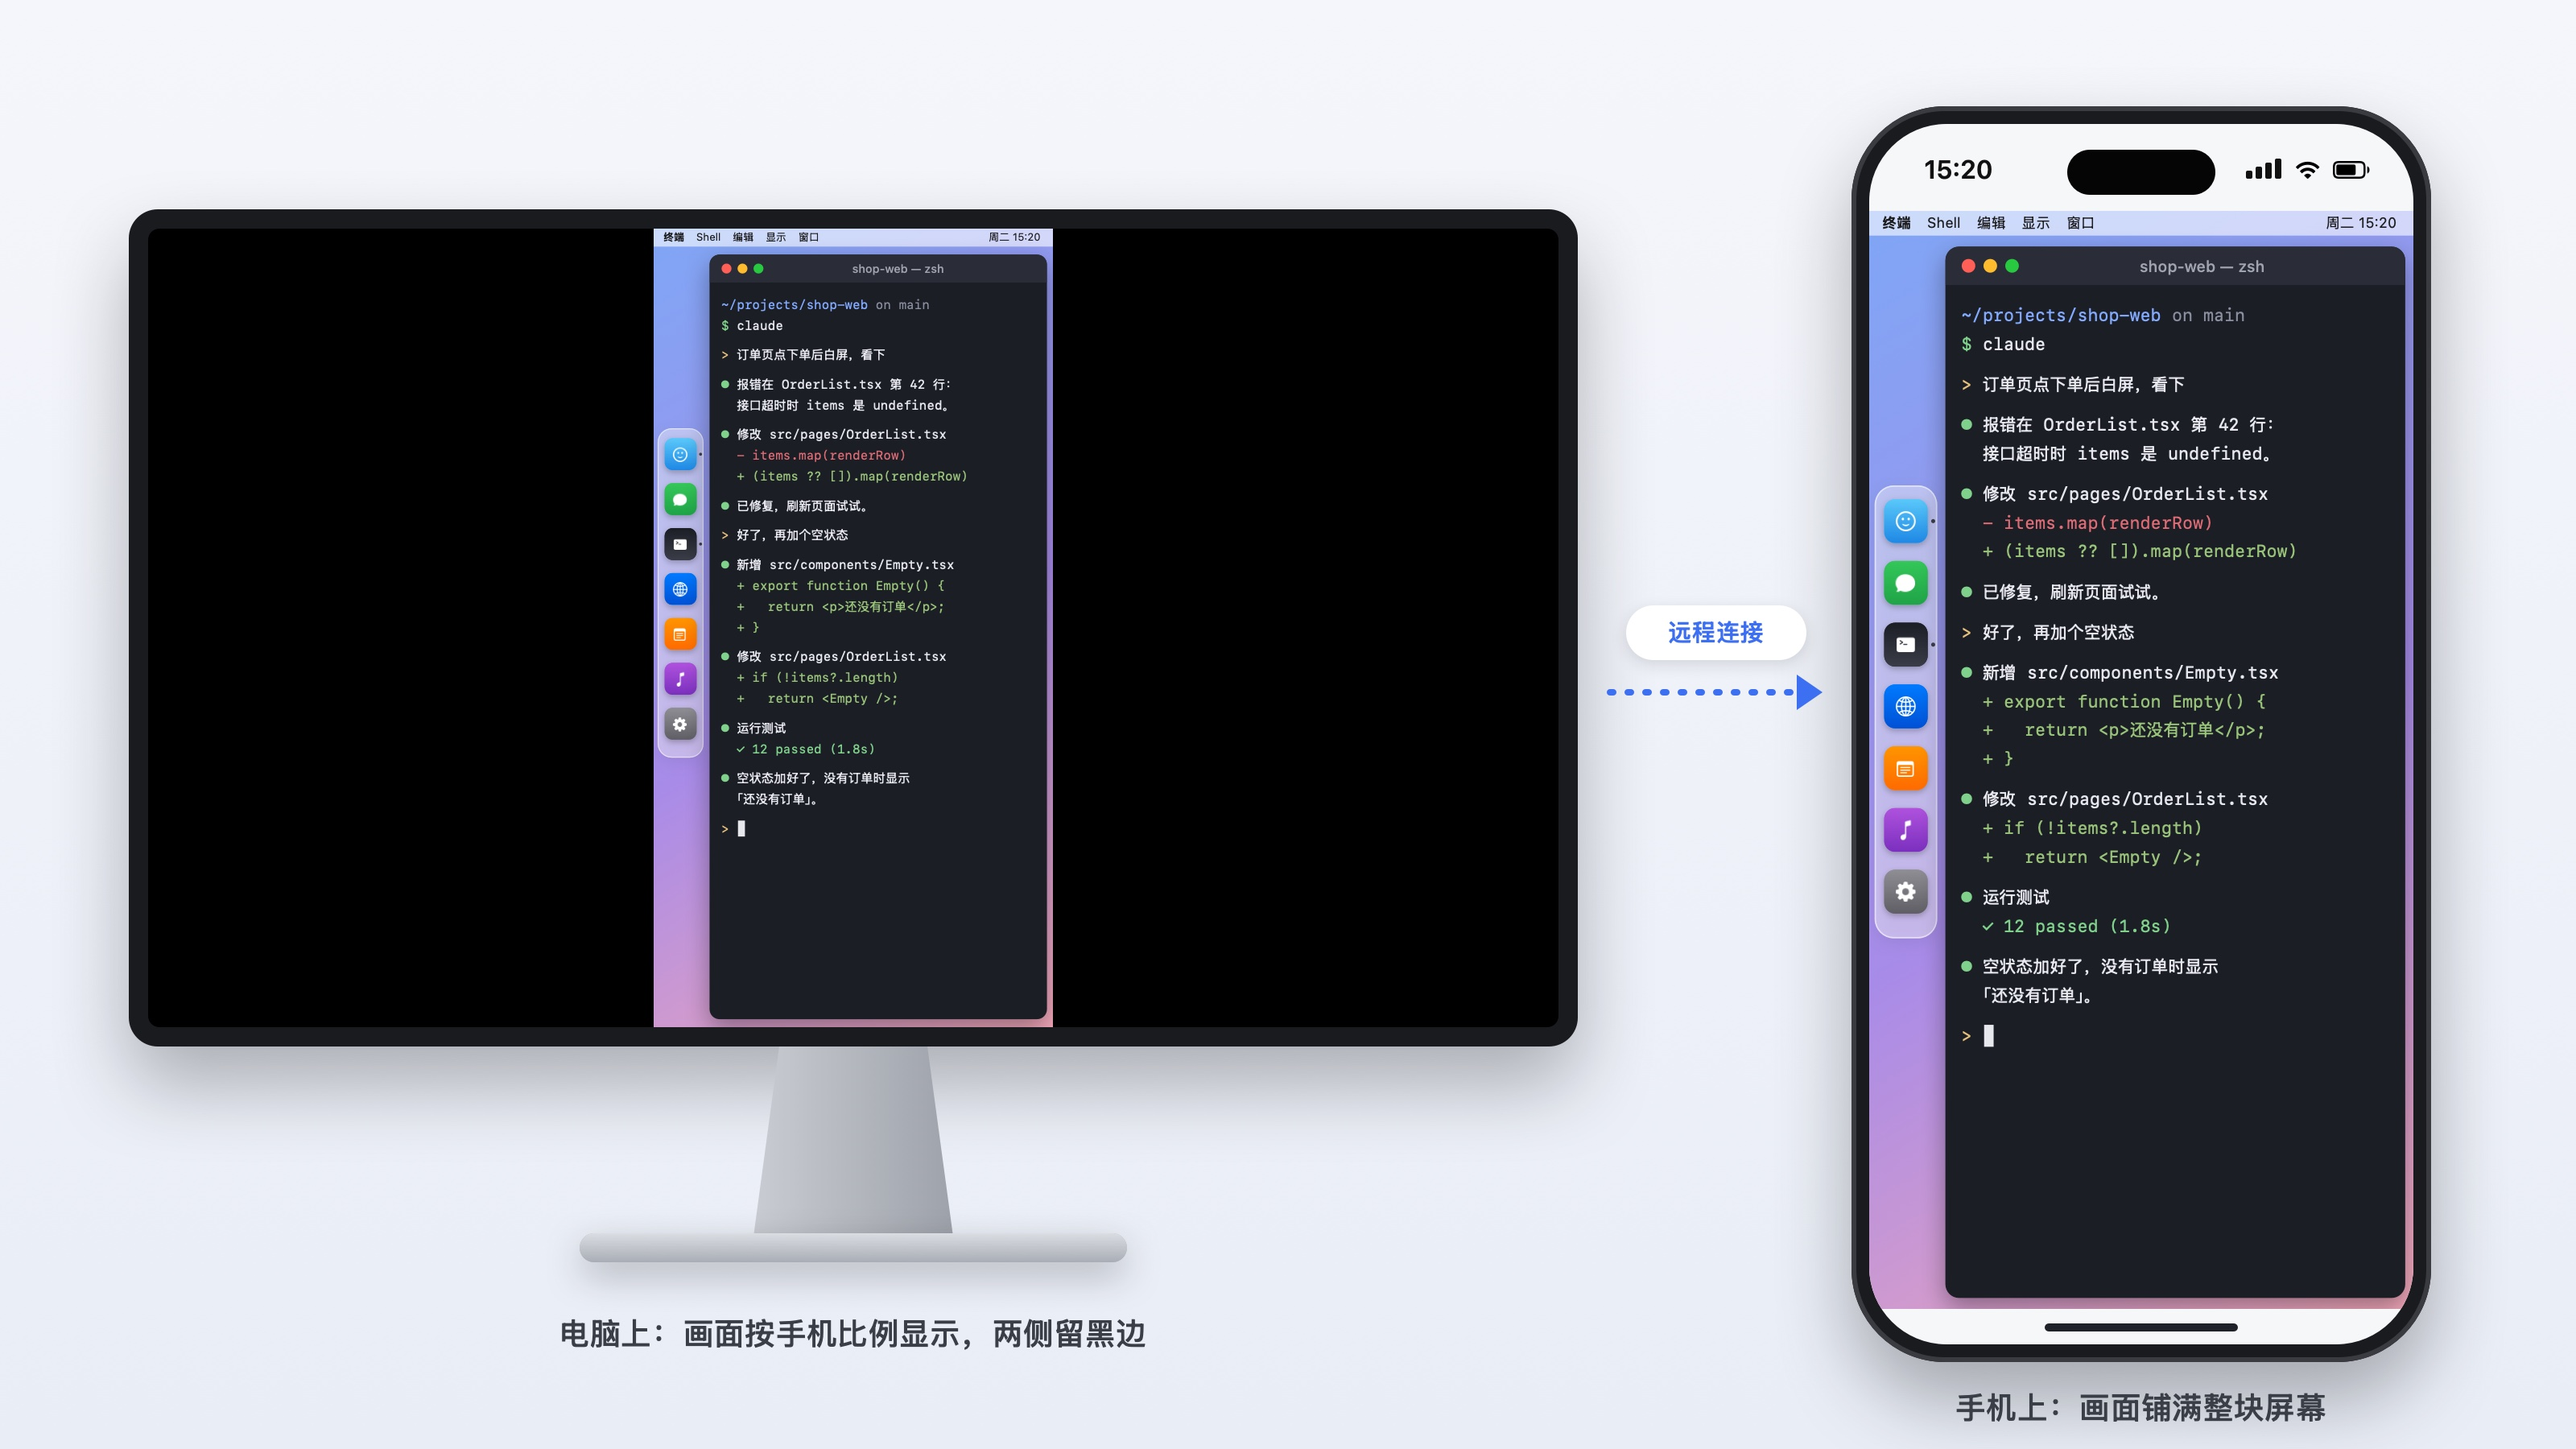
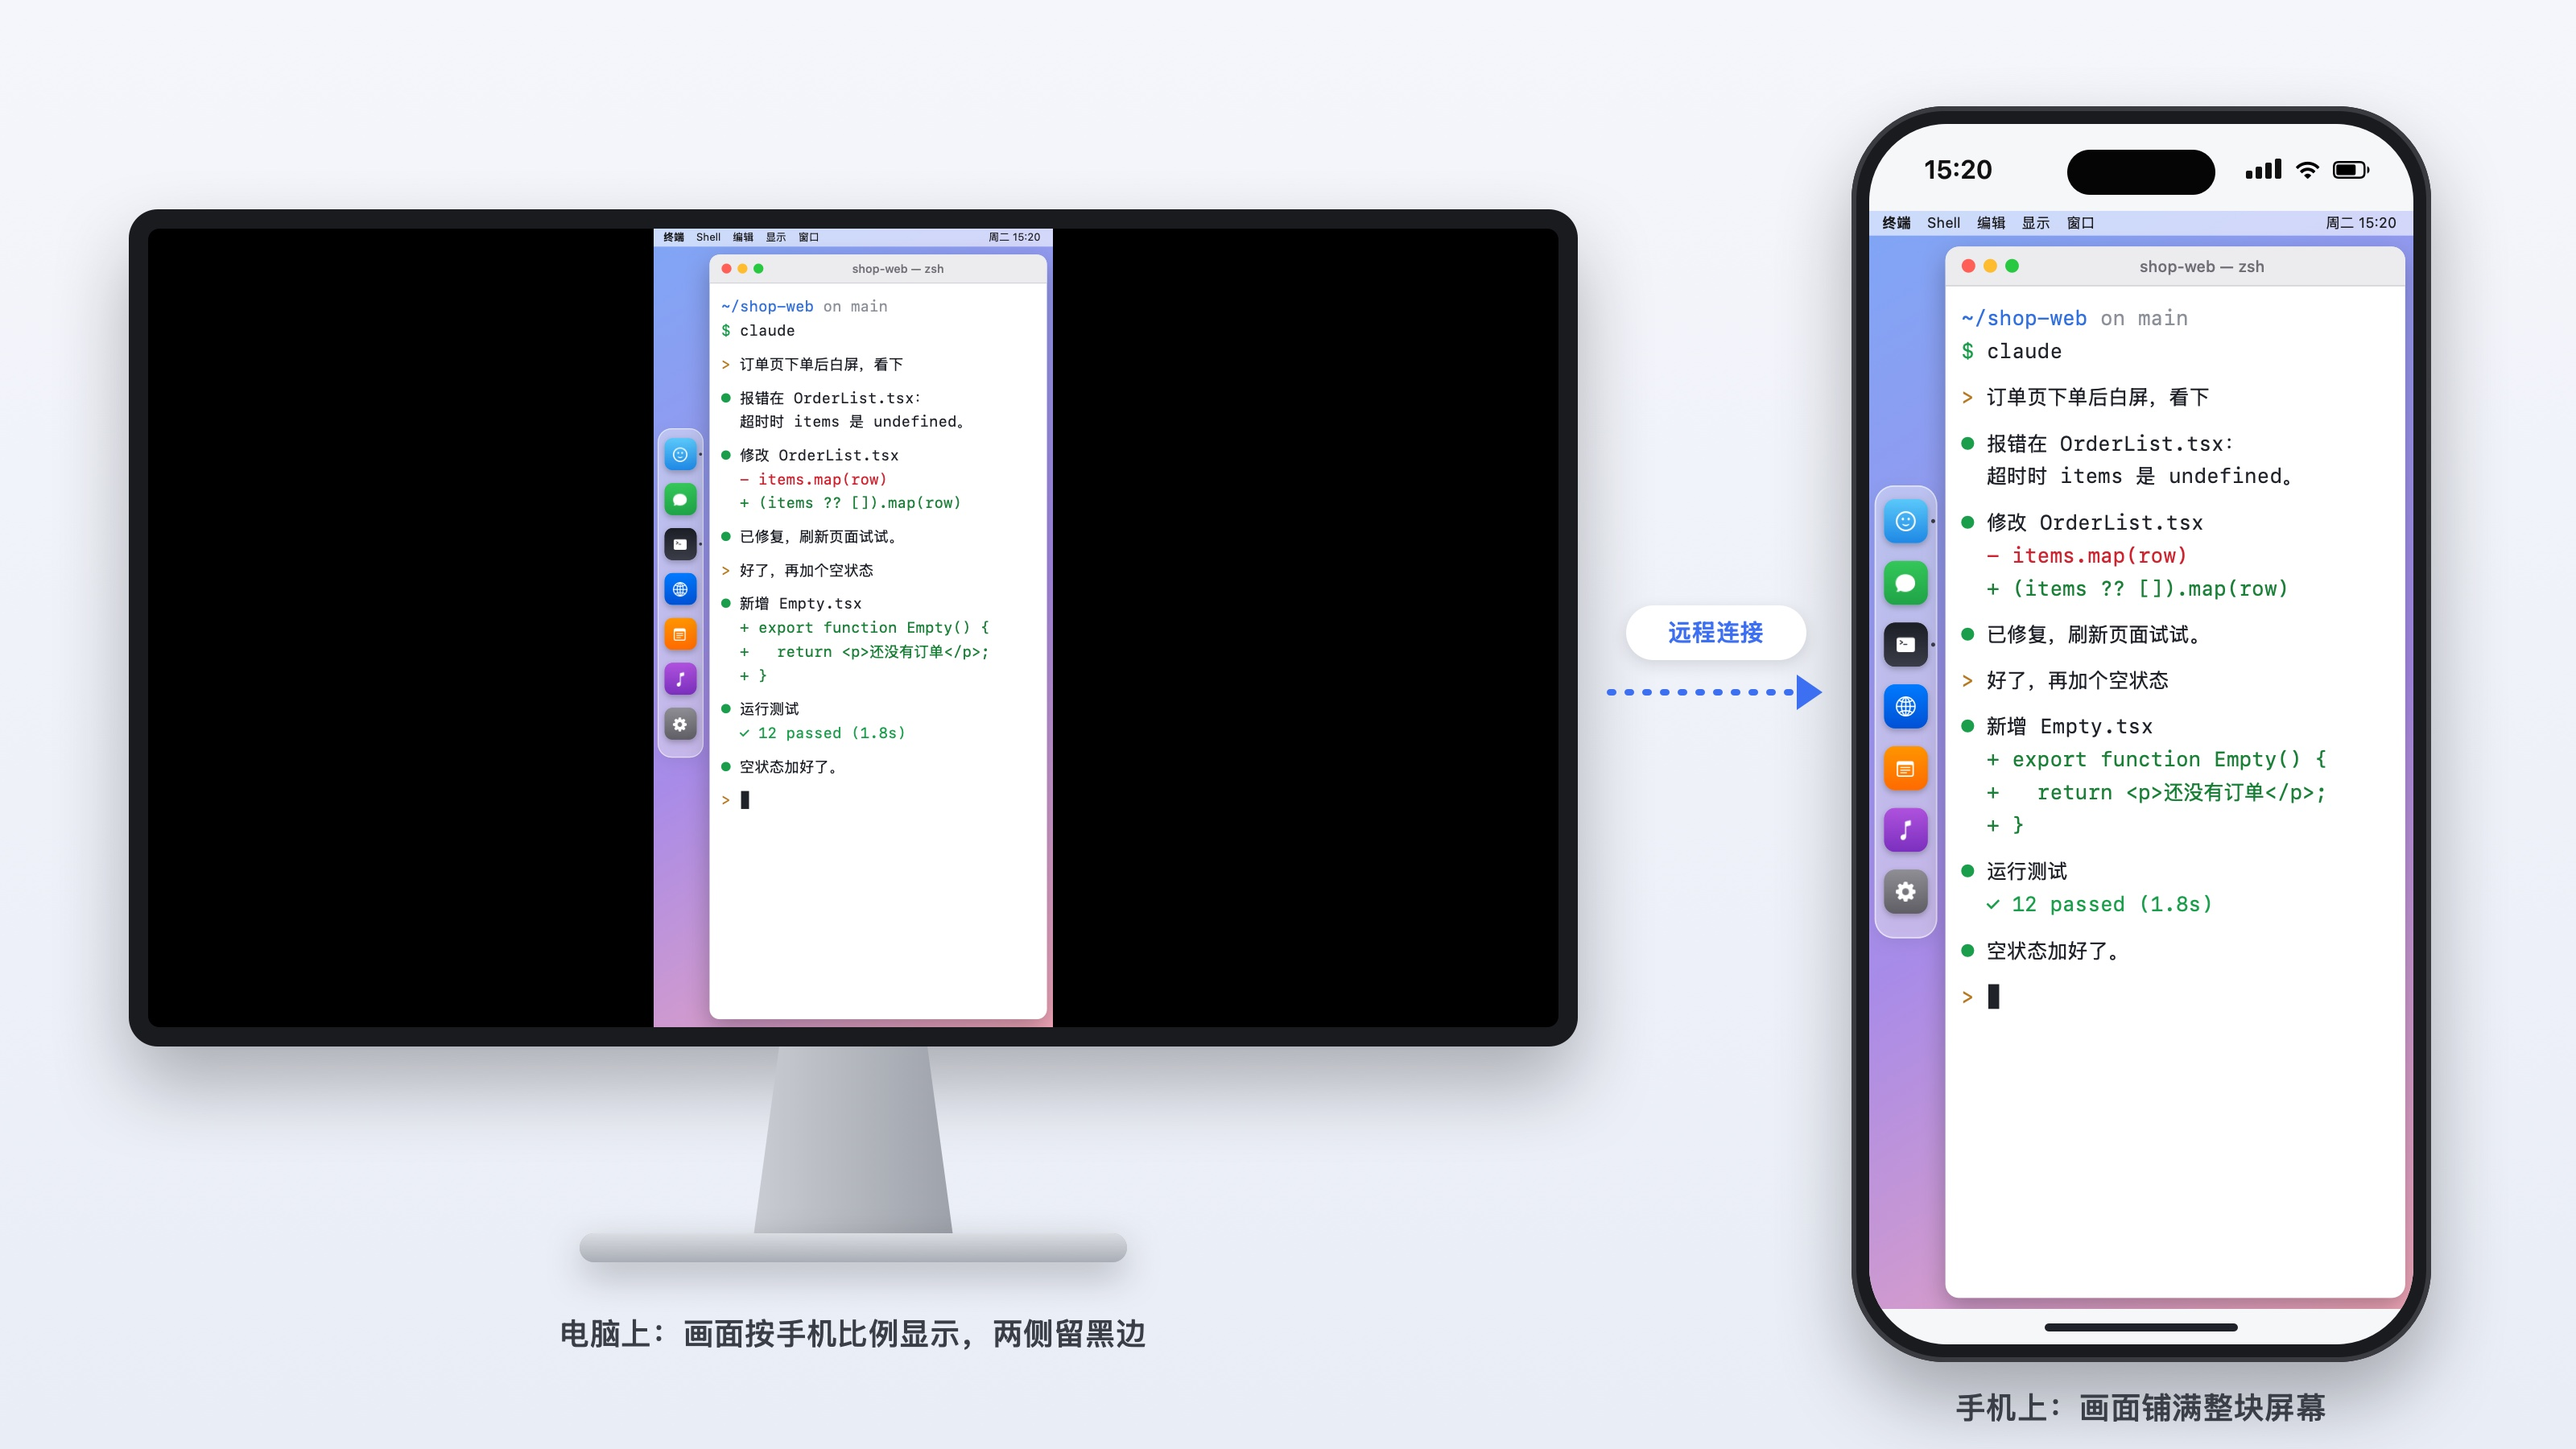
README 示意图：终端改浅色、字号加大，绘图源码放进 tools

Changed region(s): [[0.75, 0.1556, 0.9375, 0.9022], [0.25, 0.1556, 0.4062, 0.7156]]

diff --git a/tools/diagram.m b/tools/diagram.m
@@ -1,0 +1,153 @@
+#import <Cocoa/Cocoa.h>
+// README 顶部的远程示意图（docs/remote-diagram.jpg）。生成：
+//   clang -fobjc-arc -o /tmp/diagram tools/diagram.m -framework Cocoa && /tmp/diagram /tmp/diagram.png
+//   sips -s format jpeg -s formatOptions 88 /tmp/diagram.png --out docs/remote-diagram.jpg
+// 左边显示器（远程画面按手机比例居中，两侧黑边），右边手机全屏（状态栏以下整块都是同一块远程画面）。
+// 远程画面是一块竖着的桌面：壁纸、菜单栏、左侧程序坞、浅色终端窗口，里面和 agent 对话。内容都是编的，设备和图标是通用造型
+#define W 1600
+#define H 900
+static NSColor *hx(unsigned v, CGFloat a){ return [NSColor colorWithSRGBRed:((v>>16)&255)/255.0 green:((v>>8)&255)/255.0 blue:(v&255)/255.0 alpha:a]; }
+static NSDictionary *font(CGFloat size, NSFontWeight w, NSColor *c) { return @{NSFontAttributeName:[NSFont systemFontOfSize:size weight:w], NSForegroundColorAttributeName:c}; }
+static CGFloat say(NSString *s, CGFloat x, CGFloat y, CGFloat size, NSColor *c, NSFontWeight w) {
+    NSDictionary *a = font(size, w, c); [s drawAtPoint:NSMakePoint(x, y) withAttributes:a]; return [s sizeWithAttributes:a].width;
+}
+static void csay(NSString *s, CGFloat cx, CGFloat y, CGFloat size, NSColor *c, NSFontWeight w) {
+    NSDictionary *a = font(size, w, c); [s drawAtPoint:NSMakePoint(cx - [s sizeWithAttributes:a].width / 2, y) withAttributes:a];
+}
+#define MONO 15.0
+static CGFloat mono(NSString *s, CGFloat x, CGFloat y, NSColor *c) {
+    NSDictionary *a = @{NSFontAttributeName:[NSFont monospacedSystemFontOfSize:MONO weight:NSFontWeightRegular], NSForegroundColorAttributeName:c};
+    [s drawAtPoint:NSMakePoint(x, y) withAttributes:a];
+    return [s sizeWithAttributes:a].width;
+}
+static NSBezierPath *rr(NSRect r, CGFloat k) { return [NSBezierPath bezierPathWithRoundedRect:r xRadius:k yRadius:k]; }
+static void shadowed(CGFloat blur, CGFloat dy, CGFloat a, void (^d)(void)) {
+    [NSGraphicsContext saveGraphicsState];
+    NSShadow *s = [NSShadow new]; s.shadowBlurRadius = blur; s.shadowOffset = NSMakeSize(0, dy); s.shadowColor = [NSColor colorWithWhite:0 alpha:a]; [s set];
+    d(); [NSGraphicsContext restoreGraphicsState];
+}
+
+// 远程画面：按 400×800 设计，坐标原点在左上角
+#define CW 400.0
+#define CH 800.0
+#define DOCK_W 46.0
+// 程序坞里的一枚图标：渐变圆角方块上一个白色符号
+static void dockIcon(NSRect r, unsigned c1, unsigned c2, NSString *sym) {
+    shadowed(4, 1.5, 0.25, ^{ [hx(c1,1) setFill]; [rr(r, 8) fill]; });
+    [[[NSGradient alloc] initWithStartingColor:hx(c1,1) endingColor:hx(c2,1)] drawInBezierPath:rr(r, 8) angle:90];
+    NSImage *im = [NSImage imageWithSystemSymbolName:sym accessibilityDescription:nil];
+    im = [im imageWithSymbolConfiguration:[NSImageSymbolConfiguration configurationWithPaletteColors:@[ NSColor.whiteColor ]]];
+    NSSize sz = im.size; CGFloat k = 17 / MAX(sz.width, sz.height);
+    [im drawInRect:NSMakeRect(NSMidX(r) - sz.width * k / 2, NSMidY(r) - sz.height * k / 2, sz.width * k, sz.height * k)];
+}
+static NSImage *remoteScreen(void) {
+    return [NSImage imageWithSize:NSMakeSize(CW, CH) flipped:YES drawingHandler:^BOOL(NSRect r) {
+        [[[NSGradient alloc] initWithColorsAndLocations:hx(0x7FA6F5,1), 0.0, hx(0xA88BE8,1), 0.55, hx(0xF2A7B8,1), 1.0, nil] drawInRect:r angle:60];
+        [hx(0xFFFFFF,0.6) setFill]; NSRectFillUsingOperation(NSMakeRect(0, 0, CW, 18), NSCompositingOperationSourceOver);
+        CGFloat x = 10;
+        for (NSString *m in @[@"终端", @"Shell", @"编辑", @"显示", @"窗口"]) x += say(m, x, 2, 10.5, hx(0x1D1D1F,1), [m isEqualToString:@"终端"] ? NSFontWeightBold : NSFontWeightRegular) + 12;
+        say(@"周二 15:20", CW - 64, 2, 10.5, hx(0x1D1D1F,1), NSFontWeightRegular);
+        // 左侧程序坞：竖着一列图标，正在运行的右边带小圆点
+        NSRect dock = NSMakeRect(4, 200, DOCK_W, 330);
+        shadowed(10, 3, 0.18, ^{ [hx(0xFFFFFF,0.42) setFill]; [rr(dock, 14) fill]; });
+        [hx(0xFFFFFF,0.55) setStroke]; NSBezierPath *db = rr(NSInsetRect(dock, 0.5, 0.5), 13.5); db.lineWidth = 1; [db stroke];
+        unsigned c1s[] = {0x5AC8FA, 0x34C759, 0x1C1E26, 0x007AFF, 0xFF9500, 0xAF52DE, 0x8E8E93};
+        unsigned c2s[] = {0x1E88E5, 0x1FA347, 0x3A3D47, 0x0051D5, 0xFF6A00, 0x7B2FBE, 0x5E5E63};
+        NSArray *syms = @[ @"face.smiling", @"message.fill", @"terminal.fill", @"globe", @"note.text", @"music.note", @"gearshape.fill" ];
+        for (int i = 0; i < 7; i++) {
+            NSRect ic = NSMakeRect(dock.origin.x + 7, dock.origin.y + 10 + i * 45, 32, 32);
+            dockIcon(ic, c1s[i], c2s[i], syms[i]);
+            if (i == 0 || i == 2) { [hx(0x1D1D1F,0.8) setFill]; [[NSBezierPath bezierPathWithOvalInRect:NSMakeRect(NSMaxX(dock) - 4.5, NSMidY(ic) - 1.5, 3, 3)] fill]; }
+        }
+        // 浅色终端窗口：在程序坞右边占满
+        NSRect win = NSMakeRect(DOCK_W + 10, 26, CW - DOCK_W - 16, CH - 34);
+        shadowed(16, 6, 0.28, ^{ [hx(0xFFFFFF,1) setFill]; [rr(win, 10) fill]; });
+        [NSGraphicsContext saveGraphicsState]; [rr(win, 10) addClip];
+        [hx(0xECECEE,1) setFill]; NSRectFill(NSMakeRect(win.origin.x, win.origin.y, win.size.width, 28));
+        [hx(0xD4D4D8,1) setFill]; NSRectFill(NSMakeRect(win.origin.x, win.origin.y + 28, win.size.width, 1));
+        unsigned dots[] = {0xFF5F57, 0xFEBC2E, 0x28C840};
+        for (int i = 0; i < 3; i++) { [hx(dots[i],1) setFill]; [[NSBezierPath bezierPathWithOvalInRect:NSMakeRect(win.origin.x + 12 + i * 16, win.origin.y + 9, 10, 10)] fill]; }
+        csay(@"shop-web — zsh", NSMidX(win) + 20, win.origin.y + 7, 11.5, hx(0x6E6E73,1), NSFontWeightMedium);
+        NSColor *dim = hx(0x8A8F98,1), *fg = hx(0x1F2329,1), *green = hx(0x1A9E4B,1), *blue = hx(0x2F6FDE,1), *yellow = hx(0xB7791F,1), *add = hx(0x1A7F37,1), *del = hx(0xCF222E,1);
+        CGFloat x0 = win.origin.x + 12, y = win.origin.y + 42, lh = 24;
+        CGFloat w;
+        w = mono(@"~/shop-web", x0, y, blue); mono(@" on main", x0 + w, y, dim); y += lh;
+        w = mono(@"$ ", x0, y, green); mono(@"claude", x0 + w, y, fg); y += lh * 1.4;
+        w = mono(@"> ", x0, y, yellow); mono(@"订单页下单后白屏，看下", x0 + w, y, fg); y += lh * 1.4;
+        w = mono(@"● ", x0, y, green); mono(@"报错在 OrderList.tsx：", x0 + w, y, fg); y += lh;
+        mono(@"  超时时 items 是 undefined。", x0, y, fg); y += lh * 1.4;
+        w = mono(@"● ", x0, y, green); mono(@"修改 OrderList.tsx", x0 + w, y, fg); y += lh;
+        mono(@"  - items.map(row)", x0, y, del); y += lh;
+        mono(@"  + (items ?? []).map(row)", x0, y, add); y += lh * 1.4;
+        w = mono(@"● ", x0, y, green); mono(@"已修复，刷新页面试试。", x0 + w, y, fg); y += lh * 1.4;
+        w = mono(@"> ", x0, y, yellow); mono(@"好了，再加个空状态", x0 + w, y, fg); y += lh * 1.4;
+        w = mono(@"● ", x0, y, green); mono(@"新增 Empty.tsx", x0 + w, y, fg); y += lh;
+        mono(@"  + export function Empty() {", x0, y, add); y += lh;
+        mono(@"  +   return <p>还没有订单</p>;", x0, y, add); y += lh;
+        mono(@"  + }", x0, y, add); y += lh * 1.4;
+        w = mono(@"● ", x0, y, green); mono(@"运行测试", x0 + w, y, fg); y += lh;
+        mono(@"  ✓ 12 passed (1.8s)", x0, y, green); y += lh * 1.4;
+        w = mono(@"● ", x0, y, green); mono(@"空状态加好了。", x0 + w, y, fg); y += lh * 1.4;
+        w = mono(@"> ", x0, y, yellow);
+        [fg setFill]; NSRectFill(NSMakeRect(x0 + w + 1, y + 1, 8, 18));
+        [NSGraphicsContext restoreGraphicsState];
+        return YES;
+    }];
+}
+
+int main(int argc, const char **argv){ @autoreleasepool {
+  NSBitmapImageRep *rep = [[NSBitmapImageRep alloc] initWithBitmapDataPlanes:NULL pixelsWide:W * 2 pixelsHigh:H * 2 bitsPerSample:8 samplesPerPixel:4 hasAlpha:YES isPlanar:NO colorSpaceName:NSDeviceRGBColorSpace bytesPerRow:0 bitsPerPixel:0];
+  rep.size = NSMakeSize(W, H);
+  [NSGraphicsContext saveGraphicsState]; [NSGraphicsContext setCurrentContext:[NSGraphicsContext graphicsContextWithBitmapImageRep:rep]];
+  [[[NSGradient alloc] initWithColorsAndLocations:hx(0xF4F6FB,1), 0.0, hx(0xE9EDF6,1), 1.0, nil] drawInRect:NSMakeRect(0,0,W,H) angle:-90];
+  NSImage *screen = remoteScreen();
+
+  NSRect mon = NSMakeRect(80, 250, 900, 520);
+  shadowed(50, -24, 0.28, ^{ [hx(0x1A1B1F,1) setFill]; [rr(mon, 18) fill]; });
+  NSRect scr = NSInsetRect(mon, 12, 12);
+  [hx(0x000000,1) setFill]; [rr(scr, 7) fill];
+  CGFloat ch = scr.size.height, cw = ch * CW / CH;
+  [screen drawInRect:NSMakeRect(NSMidX(scr) - cw / 2, scr.origin.y, cw, ch)];
+  NSBezierPath *neck = [NSBezierPath bezierPath];
+  [neck moveToPoint:NSMakePoint(NSMidX(mon) - 46, mon.origin.y)]; [neck lineToPoint:NSMakePoint(NSMidX(mon) + 46, mon.origin.y)];
+  [neck lineToPoint:NSMakePoint(NSMidX(mon) + 62, 132)]; [neck lineToPoint:NSMakePoint(NSMidX(mon) - 62, 132)]; [neck closePath];
+  [[[NSGradient alloc] initWithStartingColor:hx(0xC9CCD2,1) endingColor:hx(0x9EA2AA,1)] drawInBezierPath:neck angle:0];
+  NSRect base = NSMakeRect(NSMidX(mon) - 170, 116, 340, 18);
+  shadowed(24, -8, 0.25, ^{ [hx(0xB9BCC3,1) setFill]; [rr(base, 9) fill]; });
+  [[[NSGradient alloc] initWithStartingColor:hx(0xDADDE2,1) endingColor:hx(0xA9ADB5,1)] drawInBezierPath:rr(base, 9) angle:-90];
+  csay(@"电脑上：画面按手机比例显示，两侧留黑边", NSMidX(mon), 60, 20, hx(0x3A3F47,1), NSFontWeightMedium);
+
+  NSRect ph = NSMakeRect(1150, 54, 360, 780);
+  shadowed(50, -24, 0.3, ^{ [hx(0x1A1B1F,1) setFill]; [rr(ph, 58) fill]; });
+  [hx(0x3A3B40,1) setStroke]; NSBezierPath *rim = rr(NSInsetRect(ph, 1.5, 1.5), 56.5); rim.lineWidth = 3; [rim stroke];
+  NSRect ps = NSInsetRect(ph, 11, 11);
+  [NSGraphicsContext saveGraphicsState]; [rr(ps, 48) addClip];
+  [hx(0xF6F7F9,1) setFill]; NSRectFill(ps);
+  CGFloat top = NSMaxY(ps);
+  say(@"15:20", ps.origin.x + 34, top - 38, 16, hx(0x111111,1), NSFontWeightSemibold);
+  [hx(0x050505,1) setFill]; [rr(NSMakeRect(NSMidX(ps) - 46, top - 44, 92, 28), 14) fill];
+  for (int i = 0; i < 4; i++) { [hx(0x111111,1) setFill]; [rr(NSMakeRect(NSMaxX(ps) - 104 + i * 6, top - 34, 4, 5 + i * 2.5), 1) fill]; }
+  [[NSImage imageWithSystemSymbolName:@"wifi" accessibilityDescription:nil] drawInRect:NSMakeRect(NSMaxX(ps) - 74, top - 35, 17, 13)];
+  [[NSImage imageWithSystemSymbolName:@"battery.75percent" accessibilityDescription:nil] drawInRect:NSMakeRect(NSMaxX(ps) - 52, top - 35, 27, 13)];
+  // 状态栏以下、手势条以上整块都是远程画面
+  NSRect area = NSMakeRect(ps.origin.x, ps.origin.y + 22, ps.size.width, top - 54 - ps.origin.y - 22);
+  [screen drawInRect:area fromRect:NSZeroRect operation:NSCompositingOperationSourceOver fraction:1];
+  [hx(0x1F2329,1) setFill]; [rr(NSMakeRect(NSMidX(ps) - 60, ps.origin.y + 8, 120, 5), 2.5) fill];
+  [NSGraphicsContext restoreGraphicsState];
+  csay(@"手机上：画面铺满整块屏幕", NSMidX(ph), 14, 20, hx(0x3A3F47,1), NSFontWeightMedium);
+
+  CGFloat ay = 470;
+  NSBezierPath *line = [NSBezierPath bezierPath];
+  [line moveToPoint:NSMakePoint(1000, ay)]; [line lineToPoint:NSMakePoint(1118, ay)];
+  CGFloat dash[] = {2, 9}; [line setLineDash:dash count:2 phase:0];
+  line.lineWidth = 4; line.lineCapStyle = NSLineCapStyleRound; [hx(0x3D6FF2,1) setStroke]; [line stroke];
+  NSBezierPath *head = [NSBezierPath bezierPath];
+  [head moveToPoint:NSMakePoint(1132, ay)]; [head lineToPoint:NSMakePoint(1116, ay + 11)]; [head lineToPoint:NSMakePoint(1116, ay - 11)]; [head closePath];
+  [hx(0x3D6FF2,1) setFill]; [head fill];
+  NSRect chip = NSMakeRect(1010, ay + 20, 112, 34);
+  shadowed(10, -3, 0.12, ^{ [NSColor.whiteColor setFill]; [rr(chip, 17) fill]; });
+  csay(@"远程连接", NSMidX(chip), chip.origin.y + 8, 15, hx(0x3D6FF2,1), NSFontWeightSemibold);
+
+  [NSGraphicsContext restoreGraphicsState];
+  [[rep representationUsingType:NSBitmapImageFileTypePNG properties:@{}] writeToFile:@(argc > 1 ? argv[1] : "diagram.png") atomically:YES];
+}}
